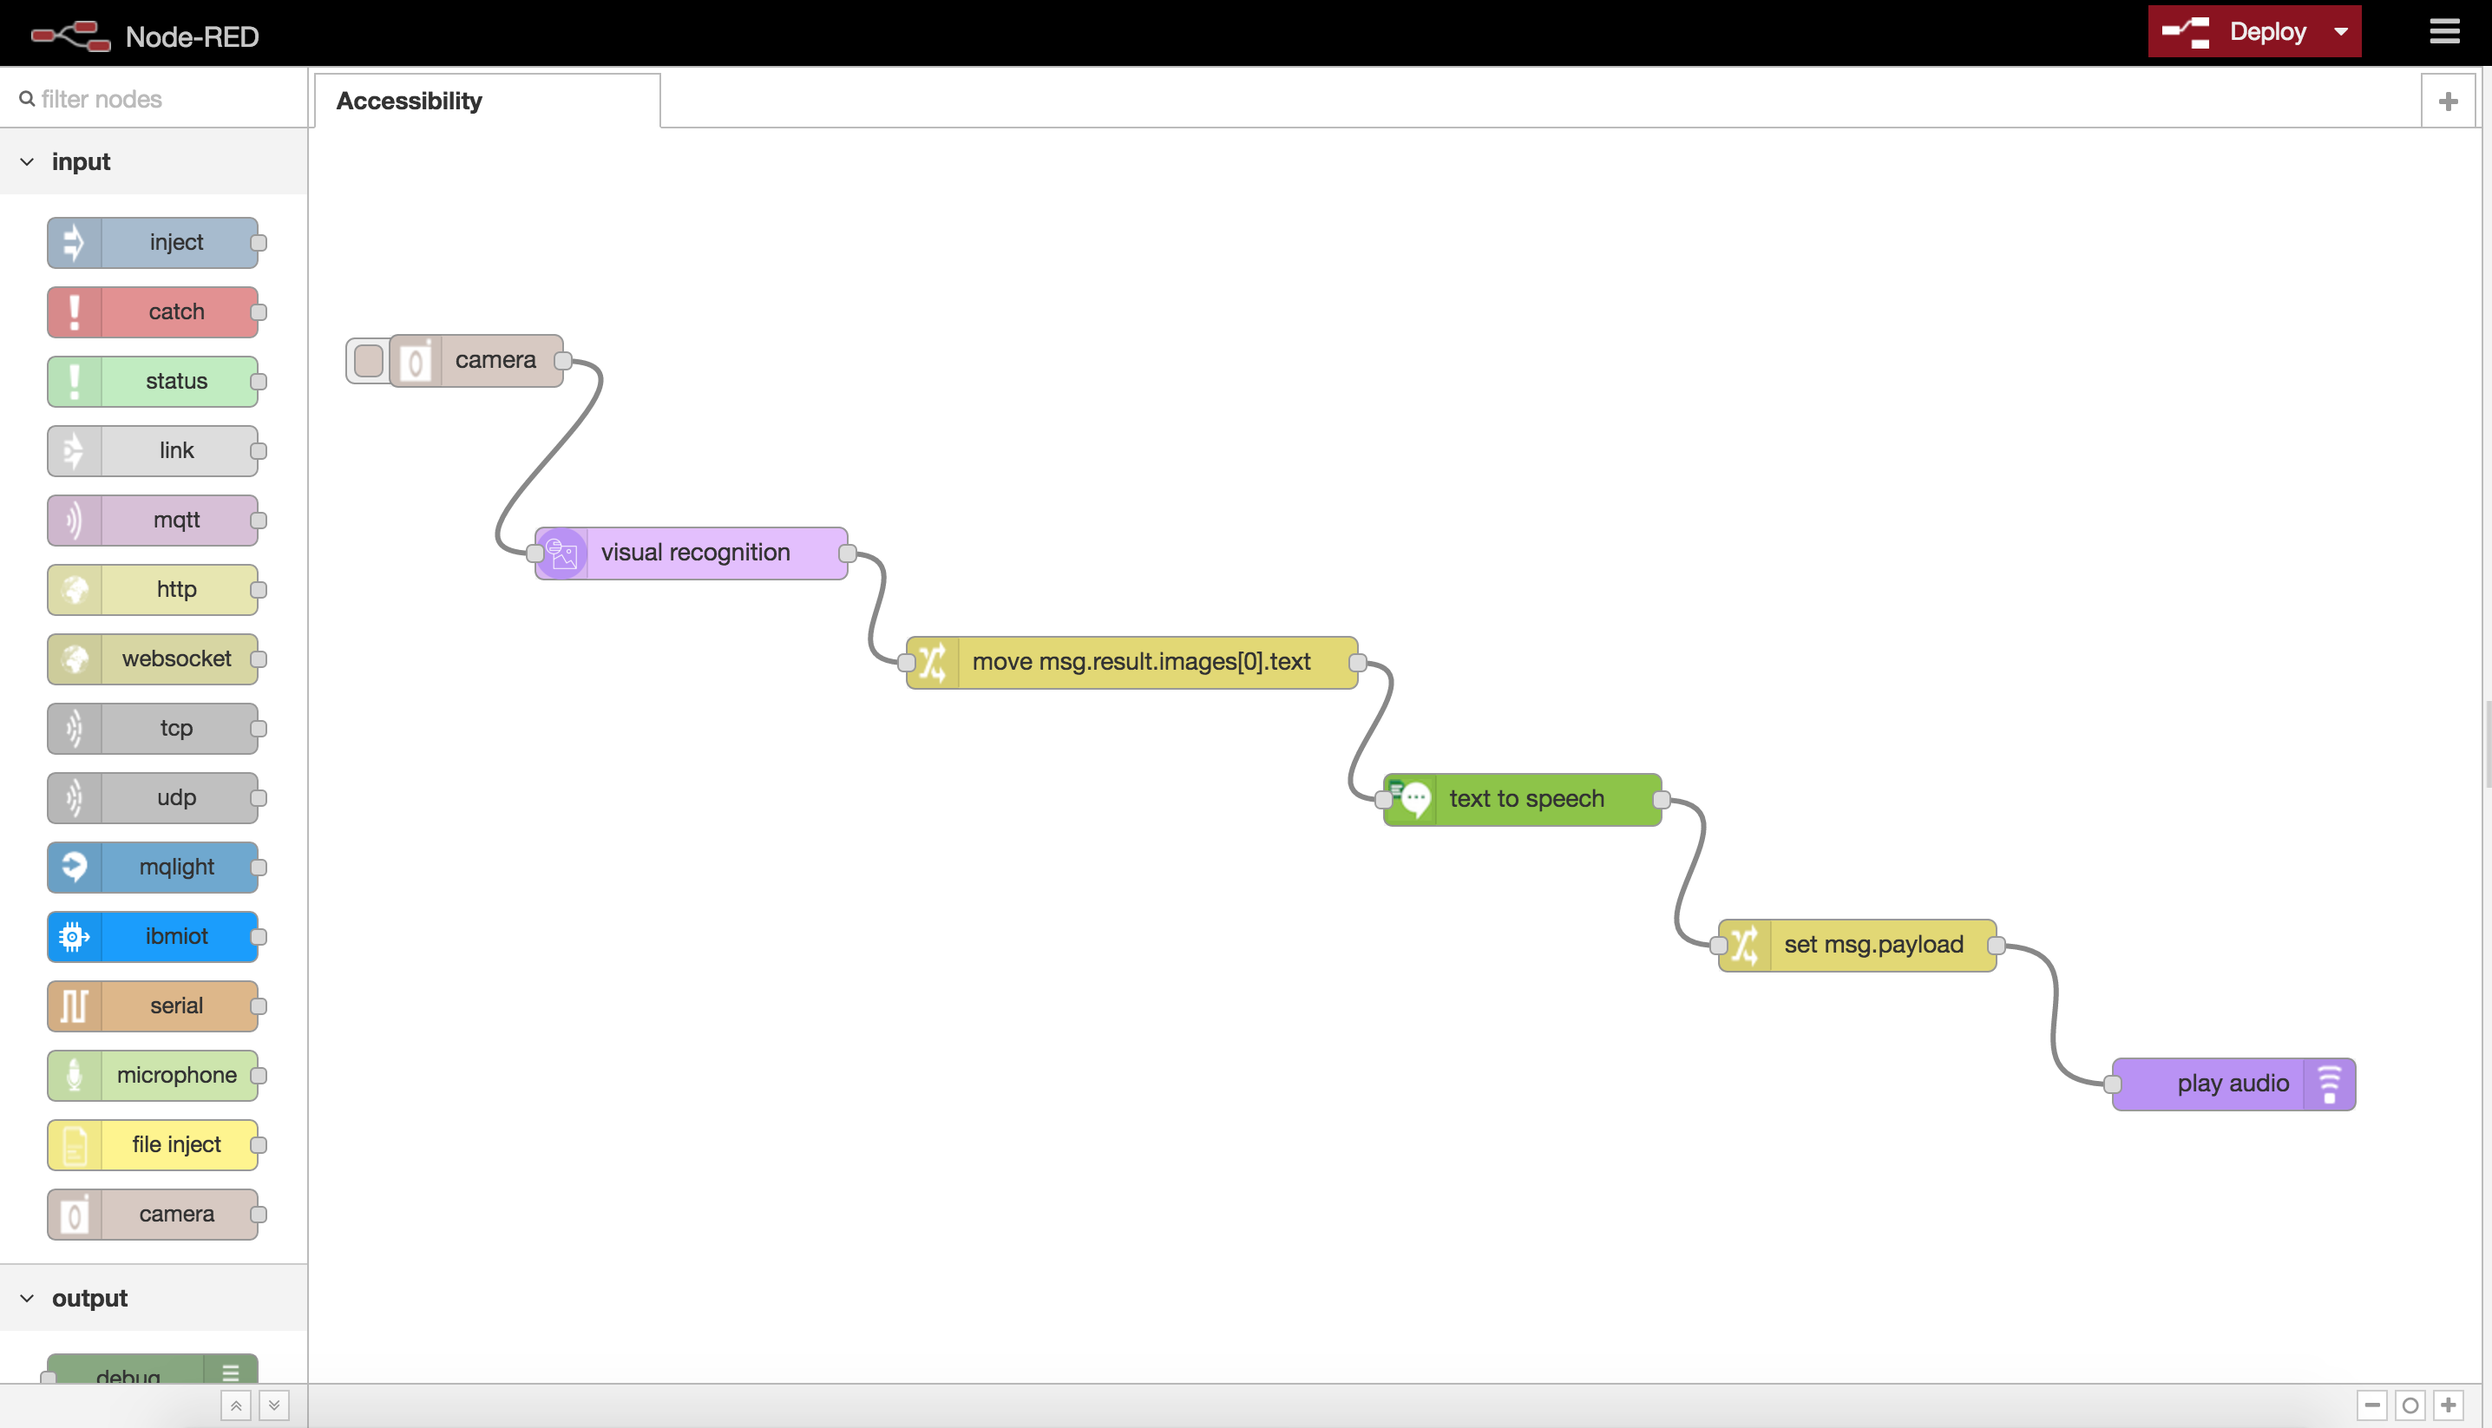
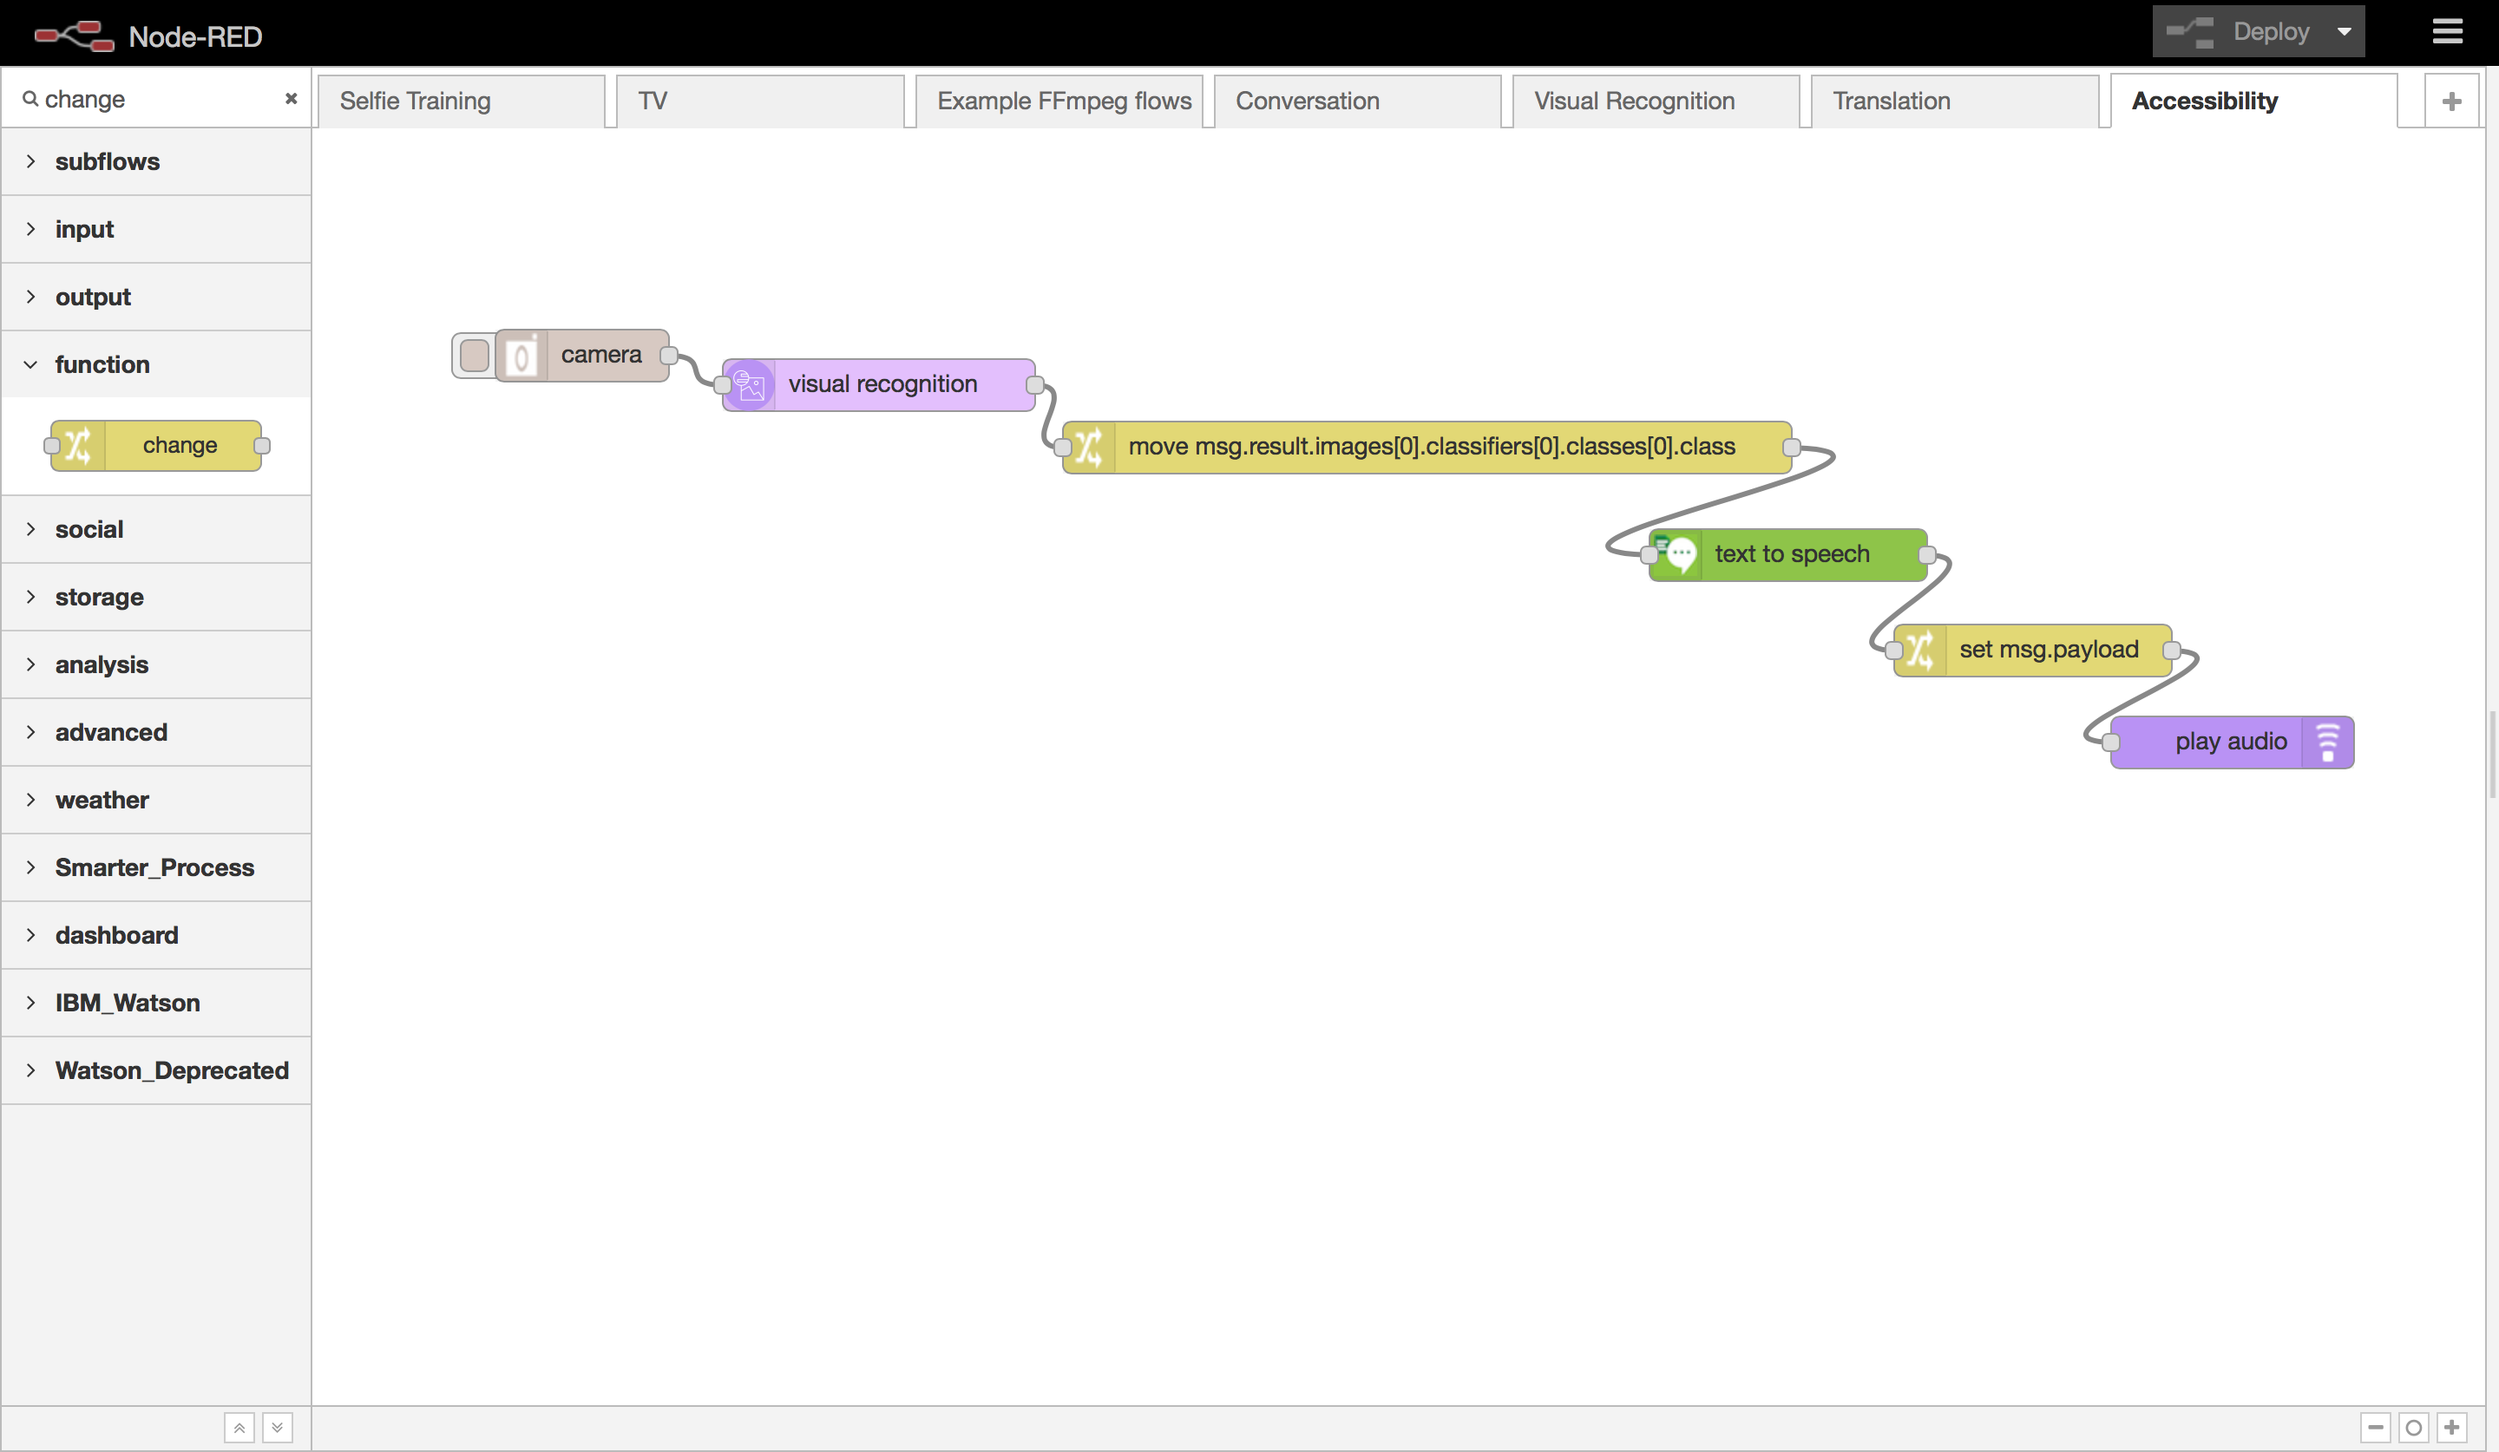
UPDATE accessibility to reflect changes in Visual Recognition service

diff --git a/starter-kits/accessibility/README.md b/starter-kits/accessibility/README.md
@@ -38,3 +38,4 @@ Node-RED will:
 ## Gotchas
 
 * The `camera` node has a 2000ms delay to prevent slow camera driver startup causing an issue in some browsers
+* The `Visual Recognition` service is currently in dark beta, as a result there may be breaking changes without warning. We'll do our best to keep up with these changes - but if you find a bug please let us know on Stack Overflow or Developer Works.
